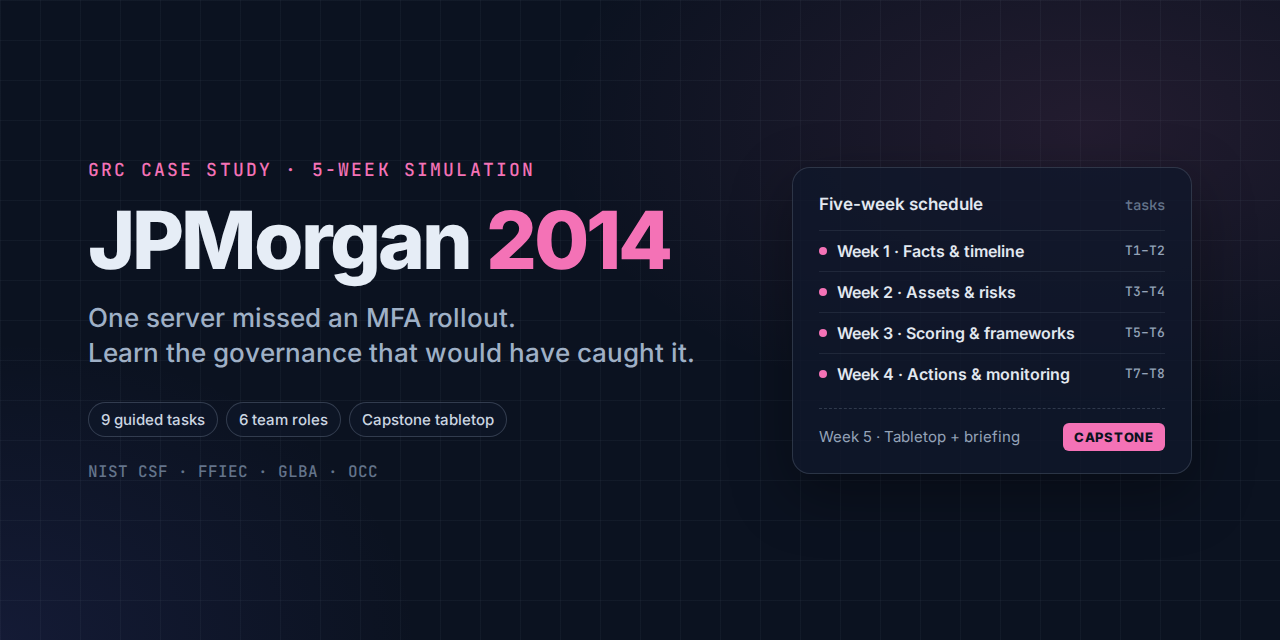
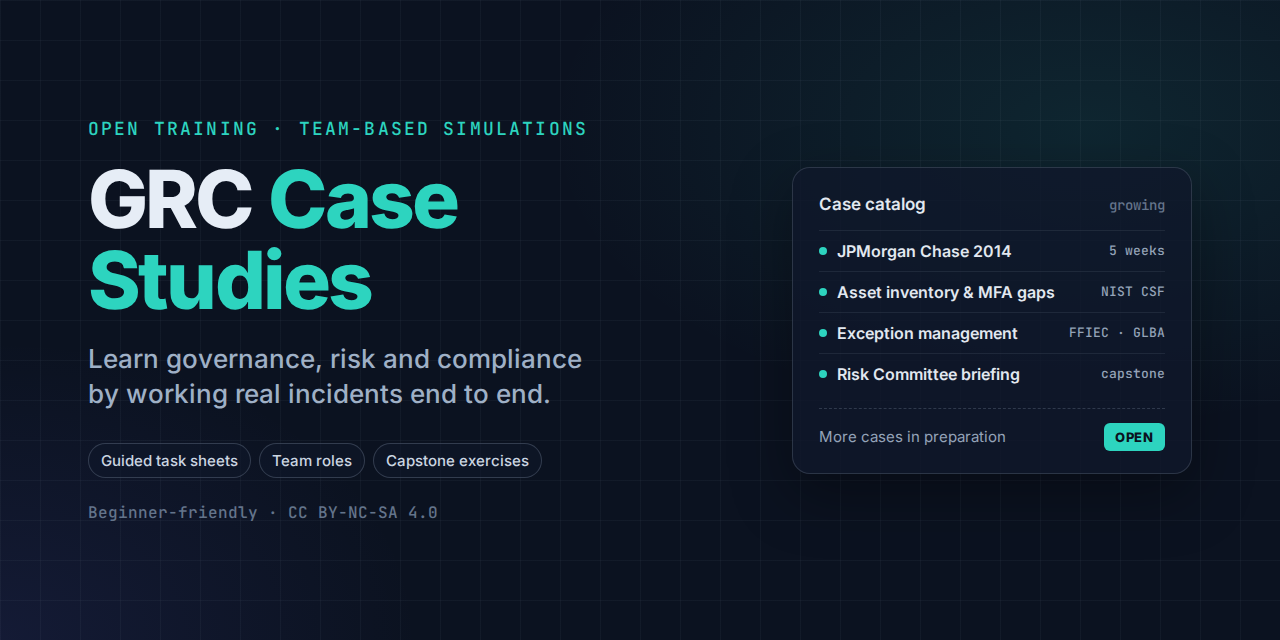
Restructure as a GRC case study collection; move JPMorgan case to jpm-2014/

diff --git a/README.md b/README.md
@@ -1,52 +1,36 @@
-![JPMorgan Chase 2014: GRC Case Study](docs/banner.png)
+![GRC Case Studies](docs/banner.png)
 
-# JPMorgan Chase 2014: A GRC Case Study
+# GRC Case Studies
 
-A five-week, team-based governance, risk and compliance (GRC) simulation built around the 2014 JPMorgan Chase data breach. Nine guided tasks take learners from case facts to a Risk Committee briefing, ending in a capstone tabletop exercise and final team presentation.
+Open, team-based case studies for learning governance, risk and compliance (GRC) by doing it. Each case turns a real or realistic incident into a sequence of guided tasks: separating facts from assumptions, scoping assets and controls, writing and scoring risks, mapping to frameworks, planning remediation, monitoring, and briefing executives. Each ends in a capstone.
 
-**The core lesson:** a well-funded security programme was breached through one internet-facing server that was left out of an enterprise two-factor authentication rollout. The failure was governance completeness (asset inventory, exception management, coverage assurance), not security technology.
+Written for GRC, IT audit and risk learners with little or no IT background. No technical configuration knowledge is required or tested.
 
-**Who it's for:** GRC, IT audit and risk learners with little or no IT background. No technical configuration knowledge is required or tested.
+## Case catalog
 
-## What's inside
+| Case | Topic | Frameworks | Format | Level |
+|---|---|---|---|---|
+| [JPMorgan Chase 2014](jpm-2014/) | A breach through one server left out of an MFA rollout; asset inventory, exception management and coverage assurance | NIST CSF, FFIEC, GLBA, OCC Heightened Standards | 5 weeks · 9 tasks · 6 roles · capstone tabletop and Risk Committee presentation | Beginner |
+
+More cases are in preparation.
+
+## How each case is organized
 
 | | |
 |---|---|
-| [Case study](case-study.md) | The breach narrative, GRC failure analysis, framework mapping, consequences and lessons |
-| [Getting started](getting-started.md) | How to use the materials, the six team roles, the five-week schedule and how each week runs |
-| [Glossary](glossary.md) | Plain-language definitions of every technical term used |
-| [Tasks 1–8](tasks/) | Weekly task sheets with objectives, questions, templates and a self-check |
-| [Capstone](capstone/) | Task 9 (incident tabletop and executive briefing) and the final team presentation brief |
-| [Rubric](rubric.md) | How the work is graded |
-| [Downloads](dist/) | The complete student workbook and case study as DOCX and PDF |
+| `case-study.md` | The case narrative and analysis |
+| `getting-started.md` | Team roles, schedule and how each week runs |
+| `tasks/` | Weekly task sheets with objectives, questions, templates and self-checks |
+| `capstone/` | The final exercise and presentation brief |
+| `rubric.md` | How the work is graded |
+| `dist/` | DOCX and PDF downloads |
 
-## Five-week schedule
+## Using these materials
 
-| Week | Tasks | Focus |
-|---|---|---|
-| 1 | Task 1 · Understand the case and learn the basic terms<br>Task 2 · Build the incident timeline and identify stakeholders | Case facts, terminology, timeline and stakeholders |
-| 2 | Task 3 · Create an asset inventory and define control scope<br>Task 4 · Identify risks and write clear risk statements | Asset scope, control gaps and risk statements |
-| 3 | Task 5 · Assess and prioritize the risks<br>Task 6 · Map the gaps to GRC frameworks and requirements | Risk scoring, evidence and framework mapping |
-| 4 | Task 7 · Design the corrective action and exception management plan<br>Task 8 · Create KRIs, KPIs and an ongoing monitoring dashboard | Corrective actions, exceptions, metrics and escalation |
-| 5 | **Capstone:** Task 9 · Conduct the incident tabletop and present to executives, plus the final team presentation | Tabletop, executive report and Risk Committee presentation |
+- **Self-study or study groups:** work through the tasks in order and check your work against the rubric.
+- **Instructors and trainers:** each case includes a delivery plan and role model you can run as-is or adapt.
 
-Plan on about 13–15 hours of classroom time plus independent work. See [Getting started](getting-started.md) for how each week runs.
-
-## Team roles
-
-The simulation is designed for six learners, each owning one role: GRC Coordinator, Asset and Control Analyst, Risk Analyst, Compliance and Controls Analyst, Incident and Communications Analyst, and Internal Auditor / Quality Reviewer. Smaller teams can combine roles, but the Internal Auditor should stay independent of the work they review.
-
-## Frameworks covered
-
-NIST Cybersecurity Framework (CSF), FFIEC guidance, the GLBA Safeguards Rule, OCC Heightened Standards, and current SEC cybersecurity disclosure expectations.
-
-## For instructors
-
-The instructor guide, answer key and model answers for all nine tasks are kept in a separate private repository so learners can't read the answers ahead of time. If you're teaching with these materials, request access through [LinkedIn](https://www.linkedin.com/in/garynair/).
-
-## About the case
-
-The case narrative is a teaching adaptation of public reporting on the 2014 breach. Some details are simplified for classroom use, so check primary sources before citing specific facts. This project is not affiliated with or endorsed by JPMorgan Chase & Co.
+Case narratives are teaching adaptations of public reporting. Some details are simplified for classroom use, so check primary sources before citing specific facts. These materials are not affiliated with or endorsed by any organization named in them.
 
 ## Author and license
 

diff --git a/jpm-2014/README.md b/jpm-2014/README.md
@@ -1,0 +1,55 @@
+![JPMorgan Chase 2014: GRC Case Study](docs/banner.png)
+
+# JPMorgan Chase 2014: A GRC Case Study
+
+*Part of [GRC Case Studies](../README.md).*
+
+A five-week, team-based governance, risk and compliance (GRC) simulation built around the 2014 JPMorgan Chase data breach. Nine guided tasks take learners from case facts to a Risk Committee briefing, ending in a capstone tabletop exercise and final team presentation.
+
+**The core lesson:** a well-funded security programme was breached through one internet-facing server that was left out of an enterprise two-factor authentication rollout. The failure was governance completeness (asset inventory, exception management, coverage assurance), not security technology.
+
+**Who it's for:** GRC, IT audit and risk learners with little or no IT background. No technical configuration knowledge is required or tested.
+
+## What's inside
+
+| | |
+|---|---|
+| [Case study](case-study.md) | The breach narrative, GRC failure analysis, framework mapping, consequences and lessons |
+| [Getting started](getting-started.md) | How to use the materials, the six team roles, the five-week schedule and how each week runs |
+| [Glossary](glossary.md) | Plain-language definitions of every technical term used |
+| [Tasks 1–8](tasks/) | Weekly task sheets with objectives, questions, templates and a self-check |
+| [Capstone](capstone/) | Task 9 (incident tabletop and executive briefing) and the final team presentation brief |
+| [Rubric](rubric.md) | How the work is graded |
+| [Downloads](dist/) | The complete student workbook and case study as DOCX and PDF |
+
+## Five-week schedule
+
+| Week | Tasks | Focus |
+|---|---|---|
+| 1 | Task 1 · Understand the case and learn the basic terms<br>Task 2 · Build the incident timeline and identify stakeholders | Case facts, terminology, timeline and stakeholders |
+| 2 | Task 3 · Create an asset inventory and define control scope<br>Task 4 · Identify risks and write clear risk statements | Asset scope, control gaps and risk statements |
+| 3 | Task 5 · Assess and prioritize the risks<br>Task 6 · Map the gaps to GRC frameworks and requirements | Risk scoring, evidence and framework mapping |
+| 4 | Task 7 · Design the corrective action and exception management plan<br>Task 8 · Create KRIs, KPIs and an ongoing monitoring dashboard | Corrective actions, exceptions, metrics and escalation |
+| 5 | **Capstone:** Task 9 · Conduct the incident tabletop and present to executives, plus the final team presentation | Tabletop, executive report and Risk Committee presentation |
+
+Plan on about 13–15 hours of classroom time plus independent work. See [Getting started](getting-started.md) for how each week runs.
+
+## Team roles
+
+The simulation is designed for six learners, each owning one role: GRC Coordinator, Asset and Control Analyst, Risk Analyst, Compliance and Controls Analyst, Incident and Communications Analyst, and Internal Auditor / Quality Reviewer. Smaller teams can combine roles, but the Internal Auditor should stay independent of the work they review.
+
+## Frameworks covered
+
+NIST Cybersecurity Framework (CSF), FFIEC guidance, the GLBA Safeguards Rule, OCC Heightened Standards, and current SEC cybersecurity disclosure expectations.
+
+## For instructors
+
+The instructor guide, answer key and model answers for all nine tasks are kept in a separate private repository so learners can't read the answers ahead of time. If you're teaching with these materials, request access through [LinkedIn](https://www.linkedin.com/in/garynair/).
+
+## About the case
+
+The case narrative is a teaching adaptation of public reporting on the 2014 breach. Some details are simplified for classroom use, so check primary sources before citing specific facts. This project is not affiliated with or endorsed by JPMorgan Chase & Co.
+
+## Author and license
+
+Created by [Girish Nair](https://github.com/garynair). Licensed under [CC BY-NC-SA 4.0](../LICENSE): you may share and adapt these materials for non-commercial use with attribution, under the same license.
